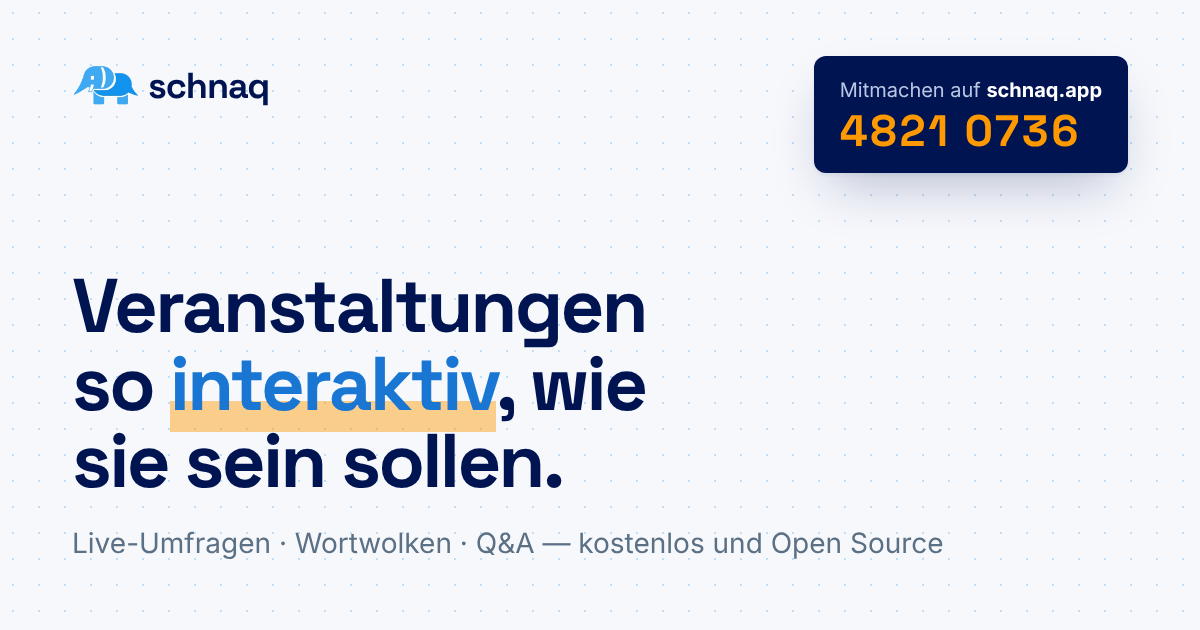
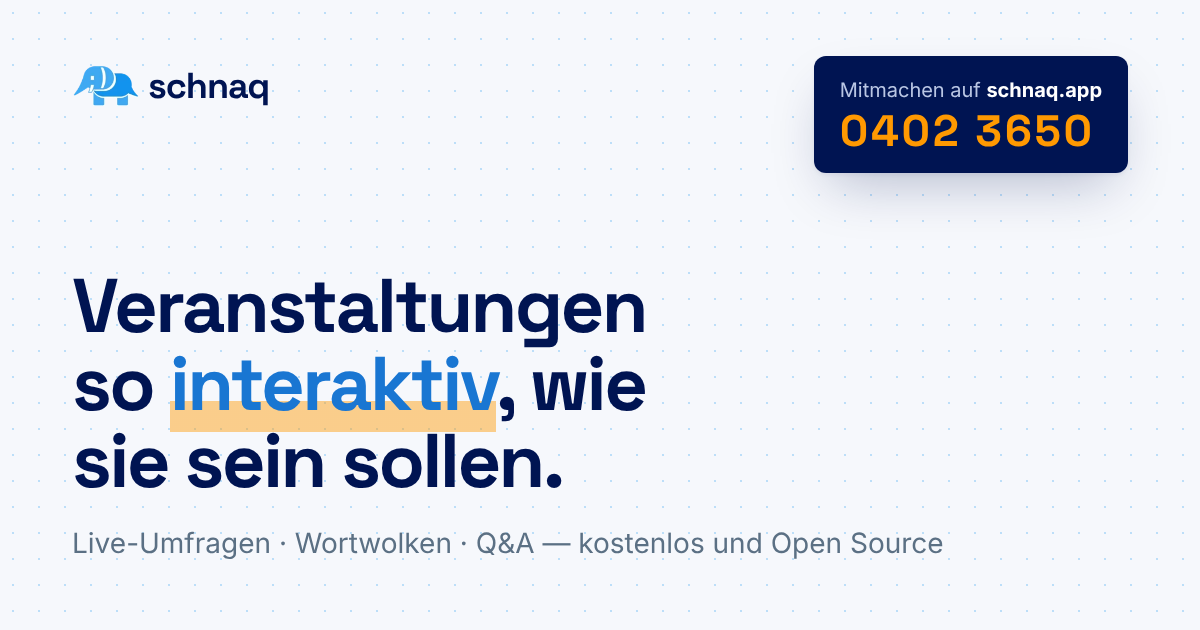
Show the demo schnaq's code and link to it
The projector mock-up and the Open Graph images show 0402 3650, the
code of a schnaq kept for demos, instead of a made-up one that led
nowhere. "Demo-schnaq ausprobieren" / "Try the demo schnaq" below the
three steps pre-fills it in the form.

Claude-Session: https://claude.ai/code/session_01AEQTXHo8MeHfACLYWchF96

Changed region(s): [[0.6783, 0.181, 0.925, 0.2413], [0.0617, 0.1206, 0.0925, 0.1508]]

diff --git a/content/de/home.html b/content/de/home.html
@@ -47,13 +47,16 @@
           <p>Alle fragen, stimmen ab und diskutieren – anonym, ohne Konto, auf jedem Gerät mit Browser. Die Ergebnisse siehst du live.</p>
         </li>
       </ol>
+      <div class="actions">
+        <a class="btn btn-outline" href="/?code=04023650#code">Demo-schnaq ausprobieren</a>
+      </div>
     </div>
     <div class="stage" role="img" aria-label="Beispiel: ein schnaq auf dem Beamer mit Zugangscode, Live-Umfrage, einer hochgevoteten Frage und einer Wortwolke">
       <div class="screen">
         <div class="screen-bar">Vorlesung · Einführung in die Informatik <span class="live">Live</span></div>
         <div class="join">
           <small>Mitmachen auf <b>schnaq.app</b> mit dem Code</small>
-          <span class="code">4821 0736</span>
+          <span class="code">0402 3650</span>
         </div>
         <div class="poll">
           <p class="poll-q">Wie sicher fühlst du dich mit Rekursion?</p>

diff --git a/content/en/home.html b/content/en/home.html
@@ -47,13 +47,16 @@
           <p>People ask, vote and discuss – anonymously, without an account, on any device with a browser. You see the results live.</p>
         </li>
       </ol>
+      <div class="actions">
+        <a class="btn btn-outline" href="/en/?code=04023650#code">Try the demo schnaq</a>
+      </div>
     </div>
     <div class="stage" role="img" aria-label="Example: a schnaq on the projector with its access code, a live poll, an upvoted question and a word cloud">
       <div class="screen">
         <div class="screen-bar">Lecture · Introduction to Computer Science <span class="live">Live</span></div>
         <div class="join">
           <small>Join at <b>schnaq.app</b> with the code</small>
-          <span class="code">4821 0736</span>
+          <span class="code">0402 3650</span>
         </div>
         <div class="poll">
           <p class="poll-q">How confident are you with recursion?</p>

diff --git a/static/assets/site.css b/static/assets/site.css
@@ -777,6 +777,10 @@ img {
   font-size: 1.25rem;
 }
 
+.steps + .actions {
+  margin-top: 1.5rem;
+}
+
 .steps p {
   margin: 0;
   color: var(--muted-foreground);
